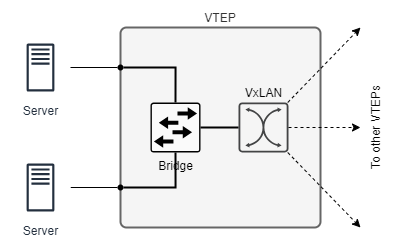
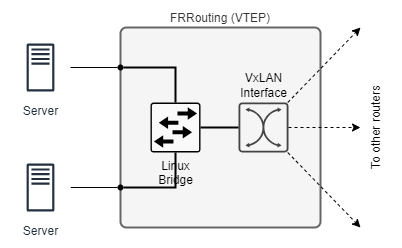
update

diff --git a/README.md b/README.md
@@ -25,32 +25,30 @@ $ cd ptp
 
 For more information, read the lab the documentation.
 
-## Introduction to VxLAN
+## VxLAN
 
-Virtual eXtensible Local-Area Network (VxLAN) is a standard network virtualization technology defined by the Internet Engineering Task Force (IETF) in [RFC 7348](https://datatracker.ietf.org/doc/html/rfc7348). It carries Ethernet traffic over an existing IP network from, potentially, a large number of tenants while maintaining traffic separation.
+Virtual eXtensible Local-Area Network (VxLAN) is a standard network virtualization technology defined by the Internet Engineering Task Force (IETF) in [RFC 7348](https://datatracker.ietf.org/doc/html/rfc7348). VXLANs encapsulats Ethernet frames within UDP packets and transport them over IP networks, making the underlying network transport between the VXLAN Tunnel Endpoint (VTEP) devices.
 
-VXLANs are encapsulated within UDP packets. The physical layout and geographic distance between nodes in the underlying network are irrelevant as long as UDP datagrams are forwarded between VXLAN Tunnel Endpoint (VTEP) devices.
+VTEPs are responsible for encapsulating and decapsulating Ethernet frames into VXLAN packets. When two hosts exchange Ethernet frames within the same VXLAN segment but on a different physical network, the packet is encapsulated with a VXLAN header by the source VTEP. This header includes information such as the VXLAN Network Identifier (VNI) and the destination VTEP's IP address. When a VXLAN packet arrives at the destination VTEP, it is decapsulated to retrieve the original Ethernet frame, which is then forwarded to the destination VM.
 
-VXLANs expand the Layer 2 network address space significantly, from 4K to 16 million. Each VXLAN network identifier (VNI) uniquely identifies a Layer 2 subnet or segment, enabling communication between virtual machines within the same VNI without requiring routing, while communication across different VNIs requires a router.
-
-
-VTEPs are responsible for encapsulating and decapsulating Ethernet frames into VXLAN packets. When a VM sends a packet to another VM within the same VXLAN segment but on a different host, the packet is encapsulated with a VXLAN header by the source VTEP. This header includes information such as the VXLAN Network Identifier (VNI) and the destination VTEP's IP address. When a VXLAN packet arrives at the destination VTEP, it is decapsulated to reveal the original Ethernet frame, which is then forwarded to the destination VM.
-
-The following diagram describes the structure of VTEP in Linux:
-
-![VTEP](img/vtep.png)
+Similar to VLANs, each VXLAN network identifier (VNI) uniquely identifies a Layer 2 subnet or segment, enabling communication between virtual machines within the same VNI without requiring routing, while communication across different VNIs requires a router. Unlike VLANs, VXLANs expand the Layer 2 network address space significantly, from 4K to more than 16 million.
 
 ### VTEP Discovery
 
 VXLAN does not provide a control plane, and VTEP discovery and host information (IP and MAC addresses, VNIs, and gateway VTEP IP address) learning are implemented using several [strategies](https://vincent.bernat.ch/en/blog/2017-vxlan-linux), including:
 
-- BUM flooding and address learning
+- BUM (broadcast, unknown unicast, and multicast) flooding and address learning.
 - Static L2/L3 entries
 - Multicast
 - EVPN
 
 The latter strategy uses EVPN as the control plane. EVPN allows VTEPs to exchange BGP EVPN routes to implement automatic VTEP discovery and host information advertisement, preventing unnecessary traffic flooding.
 
+### FRRouting
+
+This labs use FRRouting (FRR) to deploy VxLAN in several scenarios where each scenario implement one of the VTEP discovery strategy list above. FRR is an open source Internet routing protocol suite based on Linux. In all of the lab scenarios, the FRR is used as VTEP responsible for encapsulating/decapsulating the VxLAN packets from connected hosts. The FRR relies on Linux implementation of the Linux bridge and VxLAN interfaces as shown in the figure below:
+
+![VTEP](img/vtep.png)
 
 ## Notes
 
